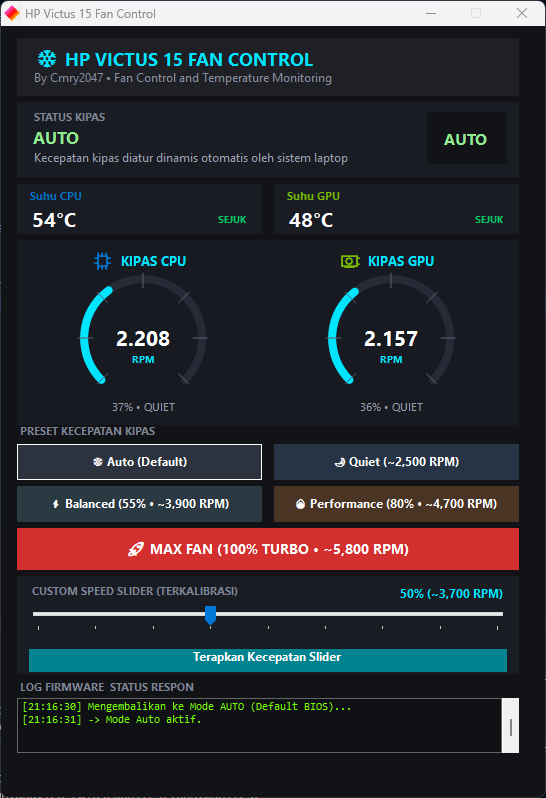
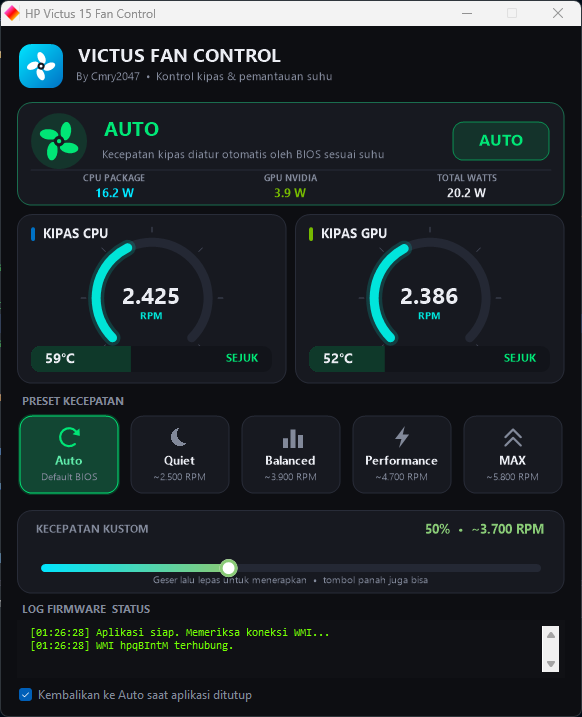
Update README screenshots

diff --git a/README.md b/README.md
@@ -4,11 +4,11 @@ HP Victus 15 Fan Control adalah aplikasi Windows ringan (lightweight) yang diran
 
 Aplikasi ini hadir sebagai alternatif yang hemat sumber daya (low-resource) dibanding OMEN Gaming Hub, memungkinkan kamu mengatur pendinginan sistem secara cepat tanpa beban background process yang berat.
 
-## Preview Aplikasi
+## Tampilan Aplikasi
 
-![Preview aplikasi HP Victus 15 Fan Control](./assets/preview.png)
+![Tampilan terbaru aplikasi HP Victus 15 Fan Control dengan suhu CPU/GPU dan daya CPU, GPU, serta total watt](./assets/preview.png)
 
-![Penggunaan resource aplikasi](./assets/ramusage.png)
+![Penggunaan memori aplikasi di Task Manager Windows](./assets/ramusage.png)
 
 ## Fitur
 
@@ -43,11 +43,6 @@ Pemantauan suhu dan daya GPU memakai `nvidia-smi`, sehingga memerlukan GPU NVIDI
 - `tools/` - launcher tambahan.
 - `build.ps1` - build EXE dengan .NET Framework.
 
-Untuk membangun ulang:
-
-```powershell
-.\build.ps1
-```
 
 ## Catatan
 
